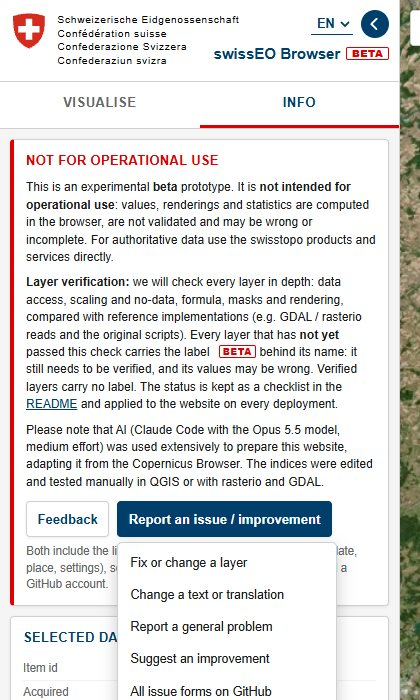
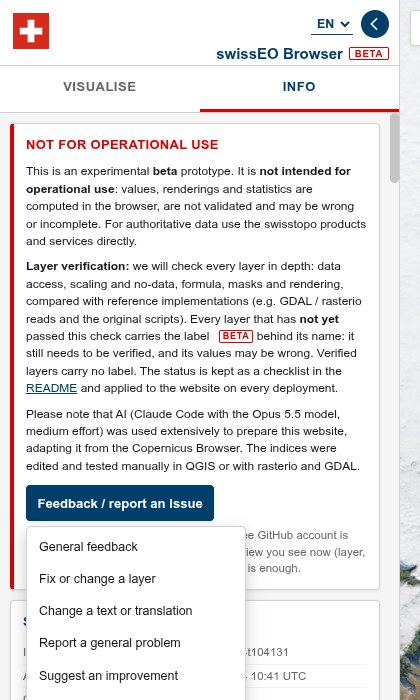
Feedback via GitHub issues only; no swisstopo legal links; README live version of the fork
The Info tab has one "Feedback / report an issue" button with a new "General
feedback" issue and the four issue forms; the e-mail feedback is removed. The
swisstopo Impressum, legal framework, terms and netiquette links are removed from
the Info tab and the help page. Help screenshot updated.

Changed region(s): [[0.0, 0.0, 1.0, 1.0], [0.4643, 0.0, 0.5571, 0.03]]

diff --git a/swisseo-browser.html b/swisseo-browser.html
@@ -486,7 +486,7 @@ textarea.exdesc{height:46px;margin:4px 0 2px 24px;width:calc(100% - 24px);font-f
 .infobox{background:var(--blue-l);border-left:3px solid var(--blue);padding:7px 9px;margin:8px 0 2px;font-size:11.5px;line-height:1.45}
 .warnbox{background:#fdecea;border-left:3px solid var(--red);padding:7px 9px;margin:8px 0 2px;font-size:11.5px;line-height:1.45;color:#5a1010}
 .warn h4{color:var(--red)!important}
-/* Feedback (e-mail) and issue links in the Info tab, as the feedback popover of topo-drought-briefing */
+/* Feedback and issue links (GitHub issues) in the Info tab, as the feedback popover of topo-drought-briefing */
 .fb-row{display:flex;gap:8px;flex-wrap:wrap;margin-top:10px}
 .fb-wrap{position:relative}
 .fb-pop{position:absolute;top:calc(100% + 5px);left:0;z-index:50;background:#fff;border:1px solid var(--border);border-radius:5px;
@@ -494,8 +494,6 @@ textarea.exdesc{height:46px;margin:4px 0 2px 24px;width:calc(100% - 24px);font-f
 .fb-pop a{display:block;padding:7px 12px;font-size:12.5px;color:var(--text);text-decoration:none;white-space:nowrap;cursor:pointer}
 .fb-pop a:hover{background:var(--hover);color:var(--blue)}
 ul.links{margin:0;padding-left:16px;font-size:12px;line-height:1.6}
-/* swisstopo legal links at the bottom of the Info tab */
-.legal{display:flex;flex-wrap:wrap;gap:4px 14px;margin-top:10px;padding-top:8px;border-top:1px solid var(--border);font-size:11.5px}
 table.kv{width:100%;border-collapse:collapse;font-size:11.5px}
 table.kv td,table.kv th{padding:3px 6px 3px 0;border-bottom:1px solid #0000000d;text-align:left;vertical-align:top}
 table.kv th{color:var(--blue);font-weight:700}
@@ -654,17 +652,17 @@ table.kv td:first-child{color:var(--muted)}
               website, adapting it from the Copernicus Browser. The indices were edited and tested manually in QGIS or with
               rasterio and GDAL.</p>
             <div class="fb-row">
-              <button class="action-btn" id="btnFeedback" title="Write an e-mail with the link to your current view (opens your mail app)">Feedback</button>
-              <div class="fb-wrap"><button class="action-btn" id="btnIssue" title="Open a GitHub issue with the link to your current view">Report an issue / improvement</button>
+              <div class="fb-wrap"><button class="action-btn" id="btnIssue" title="Feedback as a GitHub issue, with the link to your current view">Feedback / report an issue</button>
                 <div class="fb-pop" id="fbIssue" hidden>
+                  <a data-issue="feedback" target="_blank" rel="noopener">General feedback</a>
                   <a data-issue="01-layer.yml" target="_blank" rel="noopener">Fix or change a layer</a>
                   <a data-issue="02-text.yml" target="_blank" rel="noopener">Change a text or translation</a>
                   <a data-issue="03-problem.yml" target="_blank" rel="noopener">Report a general problem</a>
                   <a data-issue="04-idea.yml" target="_blank" rel="noopener">Suggest an improvement</a>
                   <a data-issue="" target="_blank" rel="noopener">All issue forms on GitHub</a></div></div>
             </div>
-            <div class="hint" style="margin-top:6px">Both include the link to exactly the view you see now (layer, date,
-              place, settings), so a sentence or two is enough. Issues need a GitHub account.</div>
+            <div class="hint" style="margin-top:6px">Feedback goes to GitHub as an issue (a free GitHub account is needed). It
+              includes the link to exactly the view you see now (layer, date, place, settings), so a sentence or two is enough.</div>
           </div></div>
         <div class="card"><h4>Selected date</h4>
           <div id="sceneInfo" style="font-size:12px;color:var(--muted)">No acquisition selected.</div></div>
@@ -854,12 +852,7 @@ table.kv td:first-child{color:var(--muted)}
             <a href="https://www.geocat.ch/geonetwork/srv/ger/catalog.search#/metadata/b07a4589-159b-4c3a-b1e7-dbdad11f7e62" target="_blank" rel="noopener">Waldmischungsgrad LFI</a>
             © BAFU / WSL. <a href="https://www.geocat.ch/datahub/dataset/ae183bc4-5c91-467e-89bc-85f390340efb" target="_blank" rel="noopener">Nutzungsflächen</a>
             © BLW and the cantons.
-            Layers of other WMS / WMTS services: © their providers. Not for operational use.</div>
-          <div class="legal">
-            <a href="https://www.swisstopo.admin.ch/en/impressum-federal-office-of-topography" target="_blank" rel="noopener">Impressum</a>
-            <a href="https://www.swisstopo.admin.ch/en/legal-framework" target="_blank" rel="noopener">Legal framework</a>
-            <a href="https://www.swisstopo.admin.ch/en/terms-and-conditions" target="_blank" rel="noopener">Terms and conditions</a>
-            <a href="https://www.swisstopo.admin.ch/en/swisstopo-netiquette-rules" target="_blank" rel="noopener">Netiquette</a></div></div>
+            Layers of other WMS / WMTS services: © their providers. Not for operational use.</div></div>
       </div>
     </aside>
 
@@ -7770,9 +7763,6 @@ async function showSceneInfo(rec, ids) {
 }
 
 /* ---- Feedback and issues: every message carries the permalink of the current view ---- */
-/* One address in "to", the other in "cc": a list in "to" needs a separator (comma or semicolon) that not every
-   mail client accepts (issue #1). */
-const FEEDBACK_TO = "david.oesch@swisstopo.ch", FEEDBACK_CC = "joan.sturm@swisstopo.ch";
 const REPO = "https://github.com/davidoesch/swisseobrowser";
 const PUBLIC_URL = "https://davidoesch.github.io/swisseobrowser/";
 /* The link to the current view; a local copy (file, localhost) links to the same view on the public website. */
@@ -7790,12 +7780,6 @@ function viewSummary() {
   return currentRec.name + " (" + currentRec.id + "), " + day + (layerOff ? ", layer hidden" : "") +
     (VERIFIED.has(currentRec.id) ? "" : ", BETA");
 }
-/* Feedback: an e-mail in the mail app of the computer (no web-mail links, issue #13). */
-function feedbackMail() {
-  const subj = "Feedback swissEO Browser", e = encodeURIComponent;
-  const body = "Link to my view: " + viewLink() + "\nOn the map: " + viewSummary() + "\n\nMy feedback:\n";
-  return "mailto:" + FEEDBACK_TO + "?cc=" + FEEDBACK_CC + "&subject=" + e(subj) + "&body=" + e(body);
-}
 function feedbackLinks() {
   const link = viewLink(), sum = viewSummary();
   // The issue text is written here and passed as title + body, the URL parameters GitHub has always filled in
@@ -7810,6 +7794,8 @@ function feedbackLinks() {
 }
 const ticks = items => items.map(t => "- [ ] " + t).join("\n");
 const ISSUE_KINDS = {
+  // general feedback: a blank issue (no form of its own), with the view and room for the message
+  "feedback": { title: "[FEEDBACK] ", parts: [["On the map", "{sum}"], ["My feedback", ""]] },
   "01-layer.yml": { title: "[LAYER] ", parts: [["Layer", "{sum}"],
     ["What is wrong? (tick one)", ticks(["Wrong values (index, reflectance, product value)", "Colours, legend or rendering",
       "Dates or data missing", "Masks (clouds, shadows, vegetation, custom mask)", "Statistics, time series or spectral explorer",
@@ -7834,7 +7820,6 @@ function issueBody(k, link, sum, browser) {
   return "### Link to the view (permalink)\n\n" + link + "\n\n" + k.parts.map(([h, t]) =>
     "### " + h + "\n\n" + t.replace("{sum}", sum).replace("{browser}", browser)).join("\n\n") + "\n";
 }
-$("#btnFeedback").onclick = () => { location.href = feedbackMail(); };
 $("#btnIssue").onclick = e => {
   e.stopPropagation();
   const pop = $("#fbIssue"), open = pop.hidden;

diff --git a/docs/index.html b/docs/index.html
@@ -616,15 +616,14 @@ footer{font-size:13px;color:var(--muted);border-top:1px solid var(--border);padd
   <h3>Feedback and issues</h3>
   <p>At the top of the <b>Info</b> tab, below the <i>not for operational use</i> notice:</p>
   <ul>
-    <li><b>Feedback</b> opens an e-mail to the swissEO team in the mail app of your computer;</li>
-    <li><b>Report an issue / improvement</b> opens a GitHub issue form of one of four kinds: <i>Fix or change a layer</i>,
-      <i>Change a text or translation</i>, <i>Report a general problem</i> or <i>Suggest an improvement</i>. This needs a
-      free GitHub account.</li>
+    <li><b>Feedback / report an issue</b> opens a new GitHub issue: <i>General feedback</i>, or one of four kinds,
+      <i>Fix or change a layer</i>, <i>Change a text or translation</i>, <i>Report a general problem</i> or
+      <i>Suggest an improvement</i>. This needs a free GitHub account.</li>
   </ul>
-  <p>Both already contain the link to exactly the view you are looking at and a summary of what is on the map, so one or
+  <p>Every issue already contains the link to exactly the view you are looking at and a summary of what is on the map, so one or
     two sentences are enough. A value from the pixel inspector helps a lot when something looks wrong.</p>
   <figure><img src="img/feedback.jpg" alt="Info tab with the Feedback and issue buttons" width="420" height="700" style="max-width:420px">
-    <figcaption><b>Fig. 21</b> Feedback and the four issue forms in the Info tab.</figcaption></figure>
+    <figcaption><b>Fig. 21</b> Feedback and the issue forms in the Info tab.</figcaption></figure>
 
   <h2 id="data"><span class="n">4</span>Data, sources and limits</h2>
   <h3>Data and sources</h3>
@@ -687,10 +686,6 @@ footer{font-size:13px;color:var(--muted);border-top:1px solid var(--border);padd
       affiliated with or endorsed by it. Source code and technical details:
       <a href="https://github.com/davidoesch/swisseobrowser" target="_blank" rel="noopener">github.com/davidoesch/swisseobrowser</a>,
       a private fork of <a href="https://github.com/swisstopo/topo-swisseobrowser" target="_blank" rel="noopener">github.com/swisstopo/topo-swisseobrowser</a>.</p>
-    <p><a href="https://www.swisstopo.admin.ch/en/impressum-federal-office-of-topography" target="_blank" rel="noopener">Impressum</a> ·
-      <a href="https://www.swisstopo.admin.ch/en/legal-framework" target="_blank" rel="noopener">Legal framework</a> ·
-      <a href="https://www.swisstopo.admin.ch/en/terms-and-conditions" target="_blank" rel="noopener">Terms and conditions</a> ·
-      <a href="https://www.swisstopo.admin.ch/en/swisstopo-netiquette-rules" target="_blank" rel="noopener">Netiquette</a></p>
   </footer>
 </div>
 </main>

diff --git a/README.md b/README.md
@@ -3,7 +3,8 @@
 A minimal, browser-only viewer for swisstopo's **swissEO** satellite products, modelled on the
 [Copernicus Browser](https://browser.dataspace.copernicus.eu/) workflow.
 
-**Live version: <https://swisstopo.github.io/topo-swisseobrowser/>**
+**Live version: <https://davidoesch.github.io/swisseobrowser/>** (a private fork of
+[swisstopo/topo-swisseobrowser](https://github.com/swisstopo/topo-swisseobrowser))
 
 [![Ask DeepWiki](https://img.shields.io/badge/DeepWiki-Ask%20about%20this%20repo-003F6B)](https://deepwiki.com/swisstopo/topo-swisseobrowser)
 **Search and ask questions about this repository:** [DeepWiki](https://deepwiki.com/swisstopo/topo-swisseobrowser)
@@ -544,11 +545,10 @@ The swissEO Browser therefore always uses the physical reflectance.
   [topo-drought-briefing](https://github.com/swisstopo/topo-drought-briefing): every message carries the **permalink of the
   current view** and a one-line summary of what is on the map (layer, id, date of its data, BETA; the compare list or the
   WMS / WMTS layer), so a sentence or two is enough. A local copy links to the same view on the public website.
-  - *Feedback*: an e-mail to david.oesch@swisstopo.ch and joan.sturm@swisstopo.ch, opened in the mail app of the computer;
-  - *Report an issue / improvement*: a new GitHub issue in this repository whose title and text the viewer writes
-    (URL parameters `title` and `body`), with the permalink, the layer and, for problems, the browser already in it, and
-    the choices as tick boxes: *Fix or change a layer*, *Change a text or translation*, *Report a general problem*,
-    *Suggest an improvement*. The same four kinds are issue forms ([`.github/ISSUE_TEMPLATE`](.github/ISSUE_TEMPLATE)) for
+  - *Feedback / report an issue*: a new GitHub issue in this repository (no e-mail) whose title and text the viewer
+    writes (URL parameters `title` and `body`), with the permalink, the layer and, for problems, the browser already in
+    it, and the choices as tick boxes: *General feedback* (a blank issue), *Fix or change a layer*, *Change a text or
+    translation*, *Report a general problem*, *Suggest an improvement*. The last four kinds are also issue forms ([`.github/ISSUE_TEMPLATE`](.github/ISSUE_TEMPLATE)) for
     issues opened directly on GitHub, each with a required permalink field. Pre-filling the form fields from the URL
     did not work, hence the text; for it blank issues have to stay enabled (`config.yml`). Issues need a GitHub account,
     and *Issues* must be switched on in the repository settings.
@@ -622,7 +622,7 @@ Firefox on a laptop:
 
 ## Running it
 
-Use the live version at <https://swisstopo.github.io/topo-swisseobrowser/>, or run it locally by serving the
+Use the live version at <https://davidoesch.github.io/swisseobrowser/>, or run it locally by serving the
 folder with any static web server:
 
 ```bash

diff --git a/CLAUDE.md b/CLAUDE.md
@@ -40,7 +40,8 @@
   and favicon), not the logo of the Confederation, and everything that means "this website" points to the fork:
   `REPO` and `PUBLIC_URL` in the page (issues, copied links), the README link of the layer verification, the source
   link of the help page and the example links of the issue forms. The credits name swisstopo/topo-swisseobrowser as
-  the original. Links to swisstopo's existing issues (#2 … #16) stay as they are.
+  the original. Links to swisstopo's existing issues (#2 … #16) stay as they are. Feedback goes only through GitHub
+  issues of the fork (no e-mail addresses), and the page has no swisstopo Impressum or legal links.
 
 ## Conventions
 
